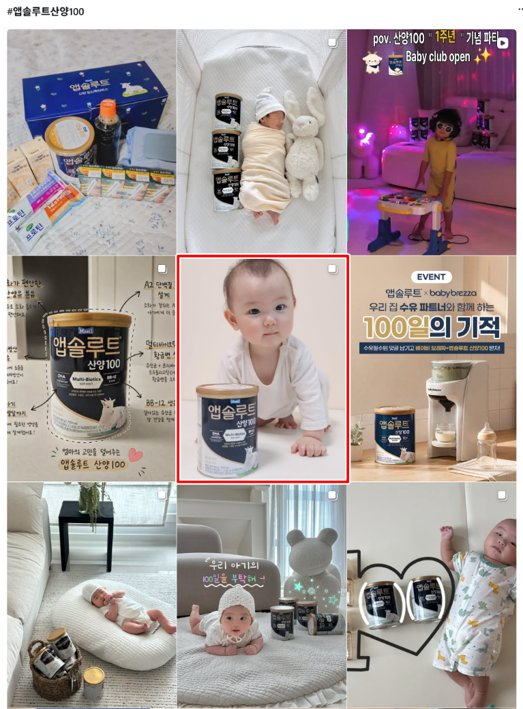
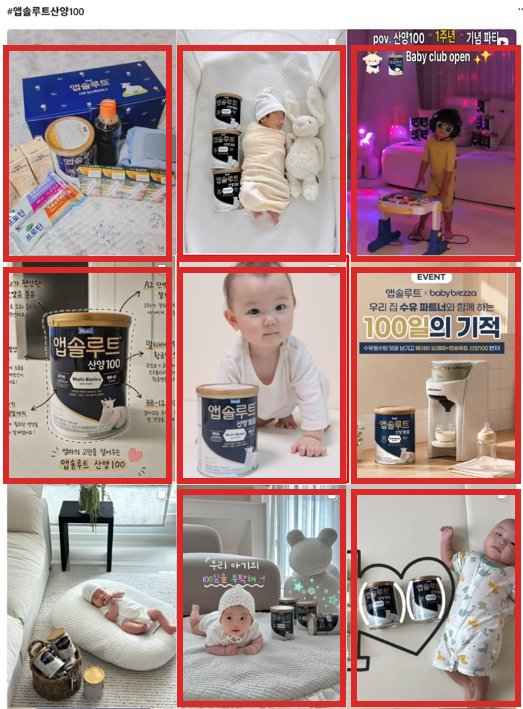
Mark 앱솔루트 산양 brand content with red borders in exposure gallery
Draw red rectangle borders over grid cells that show actual 앱솔루트
산양 product cans, official EVENT banners, or captions naming the
brand, across all 14 hashtag x week exposure screenshots. Excludes
competitor/unrelated cells (아이엠마더, 일루마 골든드림2, HiPP, etc).

Changed region(s): [[0.0, 0.0621, 1.0, 1.0]]

diff --git a/docs/index.html b/docs/index.html
@@ -196,7 +196,7 @@ footer{color:var(--text-dim); font-size:.78rem; text-align:center; padding-top:2
     </div>
     <div class="card"><h3>해시태그별 상위 노출 건수 (주차 비교)</h3><div id="ex-bar"></div></div>
     <h3 style="font-size:.95rem;margin:22px 0 8px">해시태그별 상위 노출 콘텐츠 (인스타그램 검색 결과 스크린샷)</h3>
-    <p class="cap">빨간 테두리 = 브랜드 관련 콘텐츠로 표시된 게시물. 어떤 채널·콘텐츠가 실제로 검색 상위(알고리즘 노출)에 잡히는지 직접 확인할 수 있습니다.</p>
+    <p class="cap">빨간 테두리 = 앱솔루트 산양 제품·브랜드가 확인되는 게시물(캔 패키지, 공식 EVENT 배너, 브랜드명을 명시한 캡션 등). 어떤 채널·콘텐츠가 실제로 검색 상위(알고리즘 노출)에 잡히는지 직접 확인할 수 있습니다.</p>
     <div id="ex-gallery"></div>
     <h3 style="font-size:.95rem;margin:22px 0 8px">'알고리즘 노출' 지정 인플루언서 상세</h3>
     <div class="tblwrap"><table id="ex-table"></table></div>
@@ -212,7 +212,7 @@ footer{color:var(--text-dim); font-size:.78rem; text-align:center; padding-top:2
   <footer>데이터 출처: 매일유업 앱솔루트 산양_알고리즘 마케팅 진행 인원 리스트(운영 Google Sheets) · ListeningMind 검색 데이터 API · 썸트렌드 · 초안 리포트 스냅샷</footer>
 </div>
 
-<script id="dashboard-data" type="application/json">{"generated_at": "2026-09-21 16:57", "campaign_period": {"start": "2026-09-01", "end": "2026-09-13"}, "summary": {"kpi": {"target_count": 34, "engaged_count": 29, "engaged_rate": 0.8529411764705882, "posted_count": 20, "posted_rate": 0.6896551724137931, "budget_total": 17180000, "followers_total": 1592529, "views_total": 102620, "engagement_total": 5068, "cpv_avg": 153.04428899537115}, "status_pie": {"labels": ["게시완료", "원고확보(게시대기)", "대기중", "진행불가", "섭외불가"], "values": [20.0, 5.0, 4.0, 0.0, 5.0]}, "category_bar": {"labels": ["매크로인플루언서", "나노인플루언서", "파워페이지", "브레짜협업"], "values": [7, 18, 3, 1]}}, "detail": {"table": [{"category": "매크로인플루언서", "nickname": "kaya.jjam", "content_type": "릴스", "post_url": "https://www.instagram.com/reel/DdEKU-eTYer/", "upload_date": "2026-09-10", "likes": 252, "comments": 43, "views": 1758, "engagement_rate": 0.005, "status": "게시완료"}, {"category": "매크로인플루언서", "nickname": "e._.yul531", "content_type": "릴스", "post_url": "https://www.instagram.com/reels/DdIi-RjTgsm/", "upload_date": "2026-09-11", "likes": 326, "comments": 37, "views": 17000, "engagement_rate": 0.0062586206896551, "status": "게시완료"}, {"category": "매크로인플루언서", "nickname": "sunoo.yeyo", "content_type": "릴스", "post_url": null, "upload_date": null, "likes": null, "comments": null, "views": null, "engagement_rate": null, "status": "원고확보(게시대기)"}, {"category": "매크로인플루언서", "nickname": "favoritehouse.e", "content_type": "릴스", "post_url": null, "upload_date": null, "likes": null, "comments": null, "views": null, "engagement_rate": null, "status": "섭외불가"}, {"category": "매크로인플루언서", "nickname": "elevre_rudy", "content_type": "릴스", "post_url": "https://www.instagram.com/p/DcxH-HUSCD2/", "upload_date": "2026-09-02", "likes": 417, "comments": 25, "views": 39000, "engagement_rate": 0.006225352112676, "status": "게시완료"}, {"category": "매크로인플루언서", "nickname": "seowoo__growup", "content_type": "릴스", "post_url": "https://www.instagram.com/reels/DdFrNYYzMaY//", "upload_date": "2026-09-11", "likes": null, "comments": 23, "views": 4157, "engagement_rate": 0.0006969696969696, "status": "게시완료"}, {"category": "매크로인플루언서", "nickname": "jane__ttt", "content_type": "릴스", "post_url": "https://www.instagram.com/reel/DdD6ofsq_mj/", "upload_date": "2026-09-09", "likes": 1286, "comments": 24, "views": 37000, "engagement_rate": 0.0056223175965665, "status": "게시완료"}, {"category": "매크로인플루언서", "nickname": "subbiin", "content_type": "릴스", "post_url": null, "upload_date": null, "likes": null, "comments": null, "views": null, "engagement_rate": null, "status": "섭외불가"}, {"category": "매크로인플루언서", "nickname": "m.fitch.ysh", "content_type": "릴스", "post_url": "https://www.instagram.com/p/DcvTGc4ufXL//", "upload_date": "2026-09-01", "likes": 43, "comments": 4, "views": 3705, "engagement_rate": 0.0004607843137254, "status": "게시완료"}, {"category": "나노인플루언서", "nickname": "so_won_sou", "content_type": "피드", "post_url": "https://www.instagram.com/p/DcvEGKSkdJk/?img_index=1", "upload_date": "2026-09-01", "likes": 590, "comments": 15, "views": null, "engagement_rate": 0.5505004549590536, "status": "게시완료"}, {"category": "나노인플루언서", "nickname": "25.11.11___", "content_type": "피드", "post_url": "https://www.instagram.com/p/Dcw5YGkk1qZ/?img_index=1", "upload_date": "2026-09-02", "likes": 91, "comments": 40, "views": null, "engagement_rate": 0.0283059636992221, "status": "게시완료"}, {"category": "나노인플루언서", "nickname": "pila.hyuni", "content_type": "피드", "post_url": "https://www.instagram.com/p/DczZCA2AUIf/?img_index=1", "upload_date": "2026-09-03", "likes": 96, "comments": 117, "views": null, "engagement_rate": 0.0567092651757188, "status": "게시완료"}, {"category": "나노인플루언서", "nickname": "uuu.eun", "content_type": "피드", "post_url": null, "upload_date": null, "likes": null, "comments": null, "views": null, "engagement_rate": null, "status": "섭외불가"}, {"category": "나노인플루언서", "nickname": "bbok.diary_", "content_type": "피드", "post_url": "https://www.instagram.com/p/DcvaMv6Ey72/?img_index=1", "upload_date": "2026-09-01", "likes": 44, "comments": 10, "views": null, "engagement_rate": 0.0523255813953488, "status": "게시완료"}, {"category": "나노인플루언서", "nickname": "_usearth", "content_type": "피드", "post_url": null, "upload_date": null, "likes": null, "comments": null, "views": null, "engagement_rate": null, "status": "원고확보(게시대기)"}, {"category": "나노인플루언서", "nickname": "jae_ha_0_0", "content_type": "피드", "post_url": "https://www.instagram.com/p/DdJXMVLgR2b/", "upload_date": "2026-09-11", "likes": 246, "comments": 87, "views": null, "engagement_rate": 0.1501352569882777, "status": "게시완료"}, {"category": "나노인플루언서", "nickname": "twinlove_1217", "content_type": "피드", "post_url": null, "upload_date": null, "likes": null, "comments": null, "views": null, "engagement_rate": null, "status": "대기중"}, {"category": "나노인플루언서", "nickname": "jieuni_summer", "content_type": "피드", "post_url": "https://www.instagram.com/p/DdFUVX2k9cO/?img_index=4&stkn=ZnZrdmE2bzA3YnJq", "upload_date": "2026-09-10", "likes": null, "comments": 1, "views": null, "engagement_rate": 0.0006793478260869, "status": "게시완료"}, {"category": "나노인플루언서", "nickname": "dong_juuu", "content_type": "피드", "post_url": "https://www.instagram.com/p/DdJOWeyiRhl/?stkn=dnV6dWoxNmthNWM2", "upload_date": "2026-09-11", "likes": 23, "comments": 9, "views": null, "engagement_rate": 0.0085356094958655, "status": "게시완료"}, {"category": "나노인플루언서", "nickname": "baby_seori", "content_type": "피드", "post_url": "https://www.instagram.com/p/DdFoNxZkpfl/?stkn=Y3kxZ3hsdm8wZnM5", "upload_date": "2026-09-10", "likes": 25, "comments": 11, "views": null, "engagement_rate": 0.0163191296464188, "status": "게시완료"}, {"category": "나노인플루언서", "nickname": "2hyeone_e", "content_type": "피드", "post_url": "https://www.instagram.com/p/DdD-0D8Cdqx/", "upload_date": "2026-09-09", "likes": 80, "comments": 64, "views": null, "engagement_rate": 0.0644295302013422, "status": "게시완료"}, {"category": "나노인플루언서", "nickname": "ho_ryong2", "content_type": "피드", "post_url": null, "upload_date": null, "likes": null, "comments": null, "views": null, "engagement_rate": null, "status": "섭외불가"}, {"category": "나노인플루언서", "nickname": "hhhaz1n", "content_type": "피드", "post_url": "https://www.instagram.com/p/DdNo09HEhMo//", "upload_date": "2026-09-13", "likes": 100, "comments": 98, "views": null, "engagement_rate": 0.1218461538461538, "status": "게시완료"}, {"category": "나노인플루언서", "nickname": "an._.seol", "content_type": "피드", "post_url": "https://www.instagram.com/p/DdGXOewEkc2//", "upload_date": "2026-09-10", "likes": 322, "comments": 15, "views": null, "engagement_rate": 0.0581234908589168, "status": "게시완료"}, {"category": "나노인플루언서", "nickname": "oneday_archive", "content_type": "피드", "post_url": "https://www.instagram.com/p/DdGVuwHEc8r/?img_index=1", "upload_date": "2026-09-10", "likes": 3, "comments": 2, "views": null, "engagement_rate": 0.0027412280701754, "status": "게시완료"}, {"category": "나노인플루언서", "nickname": "jaewonly_", "content_type": "피드", "post_url": null, "upload_date": null, "likes": null, "comments": null, "views": null, "engagement_rate": null, "status": "원고확보(게시대기)"}, {"category": "나노인플루언서", "nickname": "h__ysiun", "content_type": "피드", "post_url": null, "upload_date": null, "likes": null, "comments": null, "views": null, "engagement_rate": null, "status": "섭외불가"}, {"category": "나노인플루언서", "nickname": "s2.__.sarang", "content_type": "피드", "post_url": "https://www.instagram.com/p/DdJZiVxmmyr/?img_index=11", "upload_date": "2026-09-11", "likes": 17, "comments": 3, "views": null, "engagement_rate": 0.0089766606822262, "status": "게시완료"}, {"category": "나노인플루언서", "nickname": "byeolharing", "content_type": "피드", "post_url": null, "upload_date": null, "likes": null, "comments": null, "views": null, "engagement_rate": null, "status": "원고확보(게시대기)"}, {"category": "나노인플루언서", "nickname": "music_hojun", "content_type": "피드", "post_url": "https://www.instagram.com/p/DcvC0hYgdXx/?img_index=1", "upload_date": "2026-09-01", "likes": 470, "comments": 9, "views": null, "engagement_rate": 0.0435454545454545, "status": "게시완료"}, {"category": "파워페이지", "nickname": "육아베스트", "content_type": "피드", "post_url": null, "upload_date": null, "likes": null, "comments": null, "views": null, "engagement_rate": null, "status": "대기중"}, {"category": "파워페이지", "nickname": "맘스타그램", "content_type": "피드", "post_url": null, "upload_date": null, "likes": null, "comments": null, "views": null, "engagement_rate": null, "status": "대기중"}, {"category": "파워페이지", "nickname": "육아꿀팁", "content_type": "피드", "post_url": null, "upload_date": null, "likes": null, "comments": null, "views": null, "engagement_rate": null, "status": "대기중"}, {"category": "브레짜협업", "nickname": "bubuing.papa", "content_type": "릴스", "post_url": null, "upload_date": null, "likes": null, "comments": null, "views": null, "engagement_rate": null, "status": "원고확보(게시대기)"}]}, "brand_share": {"own_keyword": "앱솔루트 산양", "competitor_keyword": "일동후디스 분유", "months": ["2025-09", "2025-10", "2025-11", "2025-12", "2026-01", "2026-02", "2026-03", "2026-04", "2026-05", "2026-06", "2026-07", "2026-08"], "own_volume": [10760, 9780, 9440, 10160, 11220, 16410, 15010, 11780, 11670, 11080, 11730, 11520], "competitor_volume": [460, 380, 460, 600, 510, 630, 600, 380, 360, 480, 360, 340], "share": [0.9590017825311944, 0.9625984251968503, 0.9535353535353536, 0.9442379182156134, 0.9565217391304348, 0.9630281690140844, 0.9615631005765536, 0.96875, 0.970074812967581, 0.9584775086505192, 0.9702233250620348, 0.9713322091062394], "latest_month": "2026-08", "latest_share": 0.9713322091062394, "avg_share": 0.9616120286655384, "share_delta": 0.0011088840442046166}, "buzz_share": {"dates": ["2026-08-18", "2026-08-19", "2026-08-20", "2026-08-21", "2026-08-22", "2026-08-23", "2026-08-24", "2026-08-25", "2026-08-26", "2026-08-27", "2026-08-28", "2026-08-29", "2026-08-30", "2026-08-31", "2026-09-01", "2026-09-02", "2026-09-03", "2026-09-04", "2026-09-05", "2026-09-06", "2026-09-07", "2026-09-08", "2026-09-09", "2026-09-10", "2026-09-11", "2026-09-12", "2026-09-13", "2026-09-14", "2026-09-15", "2026-09-16", "2026-09-17"], "own": [19, 13, 9, 11, 9, 9, 11, 10, 11, 12, 8, 3, 3, 11, 9, 8, 6, 7, 2, 2, 10, 4, 6, 9, 21, 12, 17, 24, 16, 19, 16], "competitor": [1, 1, 2, 2, 1, 1, 0, 0, 0, 0, 0, 2, 0, 1, 1, 1, 2, 0, 1, 1, 0, 2, 0, 2, 0, 2, 2, 0, 1, 1, 1], "share": [0.95, 0.9285714285714286, 0.8181818181818182, 0.8461538461538461, 0.9, 0.9, 1, 1, 1, 1, 1, 0.6, 1, 0.9166666666666666, 0.9, 0.8888888888888888, 0.75, 1, 0.6666666666666666, 0.6666666666666666, 1, 0.6666666666666666, 1, 0.8181818181818182, 1, 0.8571428571428571, 0.8947368421052632, 1, 0.9411764705882353, 0.95, 0.9411764705882353], "sov_campaign": 0.9170731707317074, "sov_pre": 0.9266666666666666, "own_total_campaign": 188, "competitor_total_campaign": 17, "campaign_start": "2026-09-01"}, "exposure": {"hashtags": ["100일분유", "산양분유", "신생아분유", "앱솔루트산양100", "앱솔루트산양분유", "앱솔산양", "앱솔산양100"], "weeks": ["2026-09-14", "2026-09-21"], "series": {"2026-09-14": [5, 1, 1, 2, 4, 5, 6], "2026-09-21": [4, 3, 4, 4, 4, 6, 6]}, "images": {"100일분유": {"2026-09-14": "images/exposure/100일분유_2026-09-14.jpg", "2026-09-21": "images/exposure/100일분유_2026-09-21.jpg"}, "산양분유": {"2026-09-14": "images/exposure/산양분유_2026-09-14.jpg", "2026-09-21": "images/exposure/산양분유_2026-09-21.jpg"}, "신생아분유": {"2026-09-14": "images/exposure/신생아분유_2026-09-14.jpg", "2026-09-21": "images/exposure/신생아분유_2026-09-21.jpg"}, "앱솔루트산양100": {"2026-09-14": "images/exposure/앱솔루트산양100_2026-09-14.jpg", "2026-09-21": "images/exposure/앱솔루트산양100_2026-09-21.jpg"}, "앱솔루트산양분유": {"2026-09-14": "images/exposure/앱솔루트산양분유_2026-09-14.jpg", "2026-09-21": "images/exposure/앱솔루트산양분유_2026-09-21.jpg"}, "앱솔산양": {"2026-09-14": "images/exposure/앱솔산양_2026-09-14.jpg", "2026-09-21": "images/exposure/앱솔산양_2026-09-21.jpg"}, "앱솔산양100": {"2026-09-14": "images/exposure/앱솔산양100_2026-09-14.jpg", "2026-09-21": "images/exposure/앱솔산양100_2026-09-21.jpg"}}, "total_latest": 31, "total_prev": 24, "top_growth_tag": "신생아분유", "top_growth_val": 3, "top_decline_tag": "100일분유", "top_decline_val": -1, "algo_flagged_count": 5, "algo_engaged_count": 3, "algo_table": [{"category": "매크로인플루언서", "nickname": "jane__ttt", "status": "게시완료", "engagement_rate": 0.0056223175965665, "views": 37000, "content_type": "릴스"}, {"category": "매크로인플루언서", "nickname": "subbiin", "status": "섭외불가", "engagement_rate": null, "views": null, "content_type": "릴스"}, {"category": "나노인플루언서", "nickname": "so_won_sou", "status": "게시완료", "engagement_rate": 0.5505004549590536, "views": null, "content_type": "피드"}, {"category": "나노인플루언서", "nickname": "25.11.11___", "status": "게시완료", "engagement_rate": 0.0283059636992221, "views": null, "content_type": "피드"}, {"category": "나노인플루언서", "nickname": "uuu.eun", "status": "섭외불가", "engagement_rate": null, "views": null, "content_type": "피드"}], "avg_er_flagged": 0.1948095787516141, "avg_er_others": 0.03547108444382421}}</script>
+<script id="dashboard-data" type="application/json">{"generated_at": "2026-09-21 17:13", "campaign_period": {"start": "2026-09-01", "end": "2026-09-13"}, "summary": {"kpi": {"target_count": 34, "engaged_count": 29, "engaged_rate": 0.8529411764705882, "posted_count": 20, "posted_rate": 0.6896551724137931, "budget_total": 17180000, "followers_total": 1592529, "views_total": 102620, "engagement_total": 5068, "cpv_avg": 153.04428899537115}, "status_pie": {"labels": ["게시완료", "원고확보(게시대기)", "대기중", "진행불가", "섭외불가"], "values": [20.0, 5.0, 4.0, 0.0, 5.0]}, "category_bar": {"labels": ["매크로인플루언서", "나노인플루언서", "파워페이지", "브레짜협업"], "values": [7, 18, 3, 1]}}, "detail": {"table": [{"category": "매크로인플루언서", "nickname": "kaya.jjam", "content_type": "릴스", "post_url": "https://www.instagram.com/reel/DdEKU-eTYer/", "upload_date": "2026-09-10", "likes": 252, "comments": 43, "views": 1758, "engagement_rate": 0.005, "status": "게시완료"}, {"category": "매크로인플루언서", "nickname": "e._.yul531", "content_type": "릴스", "post_url": "https://www.instagram.com/reels/DdIi-RjTgsm/", "upload_date": "2026-09-11", "likes": 326, "comments": 37, "views": 17000, "engagement_rate": 0.0062586206896551, "status": "게시완료"}, {"category": "매크로인플루언서", "nickname": "sunoo.yeyo", "content_type": "릴스", "post_url": null, "upload_date": null, "likes": null, "comments": null, "views": null, "engagement_rate": null, "status": "원고확보(게시대기)"}, {"category": "매크로인플루언서", "nickname": "favoritehouse.e", "content_type": "릴스", "post_url": null, "upload_date": null, "likes": null, "comments": null, "views": null, "engagement_rate": null, "status": "섭외불가"}, {"category": "매크로인플루언서", "nickname": "elevre_rudy", "content_type": "릴스", "post_url": "https://www.instagram.com/p/DcxH-HUSCD2/", "upload_date": "2026-09-02", "likes": 417, "comments": 25, "views": 39000, "engagement_rate": 0.006225352112676, "status": "게시완료"}, {"category": "매크로인플루언서", "nickname": "seowoo__growup", "content_type": "릴스", "post_url": "https://www.instagram.com/reels/DdFrNYYzMaY//", "upload_date": "2026-09-11", "likes": null, "comments": 23, "views": 4157, "engagement_rate": 0.0006969696969696, "status": "게시완료"}, {"category": "매크로인플루언서", "nickname": "jane__ttt", "content_type": "릴스", "post_url": "https://www.instagram.com/reel/DdD6ofsq_mj/", "upload_date": "2026-09-09", "likes": 1286, "comments": 24, "views": 37000, "engagement_rate": 0.0056223175965665, "status": "게시완료"}, {"category": "매크로인플루언서", "nickname": "subbiin", "content_type": "릴스", "post_url": null, "upload_date": null, "likes": null, "comments": null, "views": null, "engagement_rate": null, "status": "섭외불가"}, {"category": "매크로인플루언서", "nickname": "m.fitch.ysh", "content_type": "릴스", "post_url": "https://www.instagram.com/p/DcvTGc4ufXL//", "upload_date": "2026-09-01", "likes": 43, "comments": 4, "views": 3705, "engagement_rate": 0.0004607843137254, "status": "게시완료"}, {"category": "나노인플루언서", "nickname": "so_won_sou", "content_type": "피드", "post_url": "https://www.instagram.com/p/DcvEGKSkdJk/?img_index=1", "upload_date": "2026-09-01", "likes": 590, "comments": 15, "views": null, "engagement_rate": 0.5505004549590536, "status": "게시완료"}, {"category": "나노인플루언서", "nickname": "25.11.11___", "content_type": "피드", "post_url": "https://www.instagram.com/p/Dcw5YGkk1qZ/?img_index=1", "upload_date": "2026-09-02", "likes": 91, "comments": 40, "views": null, "engagement_rate": 0.0283059636992221, "status": "게시완료"}, {"category": "나노인플루언서", "nickname": "pila.hyuni", "content_type": "피드", "post_url": "https://www.instagram.com/p/DczZCA2AUIf/?img_index=1", "upload_date": "2026-09-03", "likes": 96, "comments": 117, "views": null, "engagement_rate": 0.0567092651757188, "status": "게시완료"}, {"category": "나노인플루언서", "nickname": "uuu.eun", "content_type": "피드", "post_url": null, "upload_date": null, "likes": null, "comments": null, "views": null, "engagement_rate": null, "status": "섭외불가"}, {"category": "나노인플루언서", "nickname": "bbok.diary_", "content_type": "피드", "post_url": "https://www.instagram.com/p/DcvaMv6Ey72/?img_index=1", "upload_date": "2026-09-01", "likes": 44, "comments": 10, "views": null, "engagement_rate": 0.0523255813953488, "status": "게시완료"}, {"category": "나노인플루언서", "nickname": "_usearth", "content_type": "피드", "post_url": null, "upload_date": null, "likes": null, "comments": null, "views": null, "engagement_rate": null, "status": "원고확보(게시대기)"}, {"category": "나노인플루언서", "nickname": "jae_ha_0_0", "content_type": "피드", "post_url": "https://www.instagram.com/p/DdJXMVLgR2b/", "upload_date": "2026-09-11", "likes": 246, "comments": 87, "views": null, "engagement_rate": 0.1501352569882777, "status": "게시완료"}, {"category": "나노인플루언서", "nickname": "twinlove_1217", "content_type": "피드", "post_url": null, "upload_date": null, "likes": null, "comments": null, "views": null, "engagement_rate": null, "status": "대기중"}, {"category": "나노인플루언서", "nickname": "jieuni_summer", "content_type": "피드", "post_url": "https://www.instagram.com/p/DdFUVX2k9cO/?img_index=4&stkn=ZnZrdmE2bzA3YnJq", "upload_date": "2026-09-10", "likes": null, "comments": 1, "views": null, "engagement_rate": 0.0006793478260869, "status": "게시완료"}, {"category": "나노인플루언서", "nickname": "dong_juuu", "content_type": "피드", "post_url": "https://www.instagram.com/p/DdJOWeyiRhl/?stkn=dnV6dWoxNmthNWM2", "upload_date": "2026-09-11", "likes": 23, "comments": 9, "views": null, "engagement_rate": 0.0085356094958655, "status": "게시완료"}, {"category": "나노인플루언서", "nickname": "baby_seori", "content_type": "피드", "post_url": "https://www.instagram.com/p/DdFoNxZkpfl/?stkn=Y3kxZ3hsdm8wZnM5", "upload_date": "2026-09-10", "likes": 25, "comments": 11, "views": null, "engagement_rate": 0.0163191296464188, "status": "게시완료"}, {"category": "나노인플루언서", "nickname": "2hyeone_e", "content_type": "피드", "post_url": "https://www.instagram.com/p/DdD-0D8Cdqx/", "upload_date": "2026-09-09", "likes": 80, "comments": 64, "views": null, "engagement_rate": 0.0644295302013422, "status": "게시완료"}, {"category": "나노인플루언서", "nickname": "ho_ryong2", "content_type": "피드", "post_url": null, "upload_date": null, "likes": null, "comments": null, "views": null, "engagement_rate": null, "status": "섭외불가"}, {"category": "나노인플루언서", "nickname": "hhhaz1n", "content_type": "피드", "post_url": "https://www.instagram.com/p/DdNo09HEhMo//", "upload_date": "2026-09-13", "likes": 100, "comments": 98, "views": null, "engagement_rate": 0.1218461538461538, "status": "게시완료"}, {"category": "나노인플루언서", "nickname": "an._.seol", "content_type": "피드", "post_url": "https://www.instagram.com/p/DdGXOewEkc2//", "upload_date": "2026-09-10", "likes": 322, "comments": 15, "views": null, "engagement_rate": 0.0581234908589168, "status": "게시완료"}, {"category": "나노인플루언서", "nickname": "oneday_archive", "content_type": "피드", "post_url": "https://www.instagram.com/p/DdGVuwHEc8r/?img_index=1", "upload_date": "2026-09-10", "likes": 3, "comments": 2, "views": null, "engagement_rate": 0.0027412280701754, "status": "게시완료"}, {"category": "나노인플루언서", "nickname": "jaewonly_", "content_type": "피드", "post_url": null, "upload_date": null, "likes": null, "comments": null, "views": null, "engagement_rate": null, "status": "원고확보(게시대기)"}, {"category": "나노인플루언서", "nickname": "h__ysiun", "content_type": "피드", "post_url": null, "upload_date": null, "likes": null, "comments": null, "views": null, "engagement_rate": null, "status": "섭외불가"}, {"category": "나노인플루언서", "nickname": "s2.__.sarang", "content_type": "피드", "post_url": "https://www.instagram.com/p/DdJZiVxmmyr/?img_index=11", "upload_date": "2026-09-11", "likes": 17, "comments": 3, "views": null, "engagement_rate": 0.0089766606822262, "status": "게시완료"}, {"category": "나노인플루언서", "nickname": "byeolharing", "content_type": "피드", "post_url": null, "upload_date": null, "likes": null, "comments": null, "views": null, "engagement_rate": null, "status": "원고확보(게시대기)"}, {"category": "나노인플루언서", "nickname": "music_hojun", "content_type": "피드", "post_url": "https://www.instagram.com/p/DcvC0hYgdXx/?img_index=1", "upload_date": "2026-09-01", "likes": 470, "comments": 9, "views": null, "engagement_rate": 0.0435454545454545, "status": "게시완료"}, {"category": "파워페이지", "nickname": "육아베스트", "content_type": "피드", "post_url": null, "upload_date": null, "likes": null, "comments": null, "views": null, "engagement_rate": null, "status": "대기중"}, {"category": "파워페이지", "nickname": "맘스타그램", "content_type": "피드", "post_url": null, "upload_date": null, "likes": null, "comments": null, "views": null, "engagement_rate": null, "status": "대기중"}, {"category": "파워페이지", "nickname": "육아꿀팁", "content_type": "피드", "post_url": null, "upload_date": null, "likes": null, "comments": null, "views": null, "engagement_rate": null, "status": "대기중"}, {"category": "브레짜협업", "nickname": "bubuing.papa", "content_type": "릴스", "post_url": null, "upload_date": null, "likes": null, "comments": null, "views": null, "engagement_rate": null, "status": "원고확보(게시대기)"}]}, "brand_share": {"own_keyword": "앱솔루트 산양", "competitor_keyword": "일동후디스 분유", "months": ["2025-09", "2025-10", "2025-11", "2025-12", "2026-01", "2026-02", "2026-03", "2026-04", "2026-05", "2026-06", "2026-07", "2026-08"], "own_volume": [10760, 9780, 9440, 10160, 11220, 16410, 15010, 11780, 11670, 11080, 11730, 11520], "competitor_volume": [460, 380, 460, 600, 510, 630, 600, 380, 360, 480, 360, 340], "share": [0.9590017825311944, 0.9625984251968503, 0.9535353535353536, 0.9442379182156134, 0.9565217391304348, 0.9630281690140844, 0.9615631005765536, 0.96875, 0.970074812967581, 0.9584775086505192, 0.9702233250620348, 0.9713322091062394], "latest_month": "2026-08", "latest_share": 0.9713322091062394, "avg_share": 0.9616120286655384, "share_delta": 0.0011088840442046166}, "buzz_share": {"dates": ["2026-08-18", "2026-08-19", "2026-08-20", "2026-08-21", "2026-08-22", "2026-08-23", "2026-08-24", "2026-08-25", "2026-08-26", "2026-08-27", "2026-08-28", "2026-08-29", "2026-08-30", "2026-08-31", "2026-09-01", "2026-09-02", "2026-09-03", "2026-09-04", "2026-09-05", "2026-09-06", "2026-09-07", "2026-09-08", "2026-09-09", "2026-09-10", "2026-09-11", "2026-09-12", "2026-09-13", "2026-09-14", "2026-09-15", "2026-09-16", "2026-09-17"], "own": [19, 13, 9, 11, 9, 9, 11, 10, 11, 12, 8, 3, 3, 11, 9, 8, 6, 7, 2, 2, 10, 4, 6, 9, 21, 12, 17, 24, 16, 19, 16], "competitor": [1, 1, 2, 2, 1, 1, 0, 0, 0, 0, 0, 2, 0, 1, 1, 1, 2, 0, 1, 1, 0, 2, 0, 2, 0, 2, 2, 0, 1, 1, 1], "share": [0.95, 0.9285714285714286, 0.8181818181818182, 0.8461538461538461, 0.9, 0.9, 1, 1, 1, 1, 1, 0.6, 1, 0.9166666666666666, 0.9, 0.8888888888888888, 0.75, 1, 0.6666666666666666, 0.6666666666666666, 1, 0.6666666666666666, 1, 0.8181818181818182, 1, 0.8571428571428571, 0.8947368421052632, 1, 0.9411764705882353, 0.95, 0.9411764705882353], "sov_campaign": 0.9170731707317074, "sov_pre": 0.9266666666666666, "own_total_campaign": 188, "competitor_total_campaign": 17, "campaign_start": "2026-09-01"}, "exposure": {"hashtags": ["100일분유", "산양분유", "신생아분유", "앱솔루트산양100", "앱솔루트산양분유", "앱솔산양", "앱솔산양100"], "weeks": ["2026-09-14", "2026-09-21"], "series": {"2026-09-14": [5, 1, 1, 2, 4, 5, 6], "2026-09-21": [4, 3, 4, 4, 4, 6, 6]}, "images": {"100일분유": {"2026-09-14": "images/exposure/100일분유_2026-09-14.jpg", "2026-09-21": "images/exposure/100일분유_2026-09-21.jpg"}, "산양분유": {"2026-09-14": "images/exposure/산양분유_2026-09-14.jpg", "2026-09-21": "images/exposure/산양분유_2026-09-21.jpg"}, "신생아분유": {"2026-09-14": "images/exposure/신생아분유_2026-09-14.jpg", "2026-09-21": "images/exposure/신생아분유_2026-09-21.jpg"}, "앱솔루트산양100": {"2026-09-14": "images/exposure/앱솔루트산양100_2026-09-14.jpg", "2026-09-21": "images/exposure/앱솔루트산양100_2026-09-21.jpg"}, "앱솔루트산양분유": {"2026-09-14": "images/exposure/앱솔루트산양분유_2026-09-14.jpg", "2026-09-21": "images/exposure/앱솔루트산양분유_2026-09-21.jpg"}, "앱솔산양": {"2026-09-14": "images/exposure/앱솔산양_2026-09-14.jpg", "2026-09-21": "images/exposure/앱솔산양_2026-09-21.jpg"}, "앱솔산양100": {"2026-09-14": "images/exposure/앱솔산양100_2026-09-14.jpg", "2026-09-21": "images/exposure/앱솔산양100_2026-09-21.jpg"}}, "total_latest": 31, "total_prev": 24, "top_growth_tag": "신생아분유", "top_growth_val": 3, "top_decline_tag": "100일분유", "top_decline_val": -1, "algo_flagged_count": 5, "algo_engaged_count": 3, "algo_table": [{"category": "매크로인플루언서", "nickname": "jane__ttt", "status": "게시완료", "engagement_rate": 0.0056223175965665, "views": 37000, "content_type": "릴스"}, {"category": "매크로인플루언서", "nickname": "subbiin", "status": "섭외불가", "engagement_rate": null, "views": null, "content_type": "릴스"}, {"category": "나노인플루언서", "nickname": "so_won_sou", "status": "게시완료", "engagement_rate": 0.5505004549590536, "views": null, "content_type": "피드"}, {"category": "나노인플루언서", "nickname": "25.11.11___", "status": "게시완료", "engagement_rate": 0.0283059636992221, "views": null, "content_type": "피드"}, {"category": "나노인플루언서", "nickname": "uuu.eun", "status": "섭외불가", "engagement_rate": null, "views": null, "content_type": "피드"}], "avg_er_flagged": 0.1948095787516141, "avg_er_others": 0.03547108444382421}}</script>
 <script>
 const DATA = JSON.parse(document.getElementById('dashboard-data').textContent);
 const CSSVAR = n => getComputedStyle(document.documentElement).getPropertyValue(n).trim();
